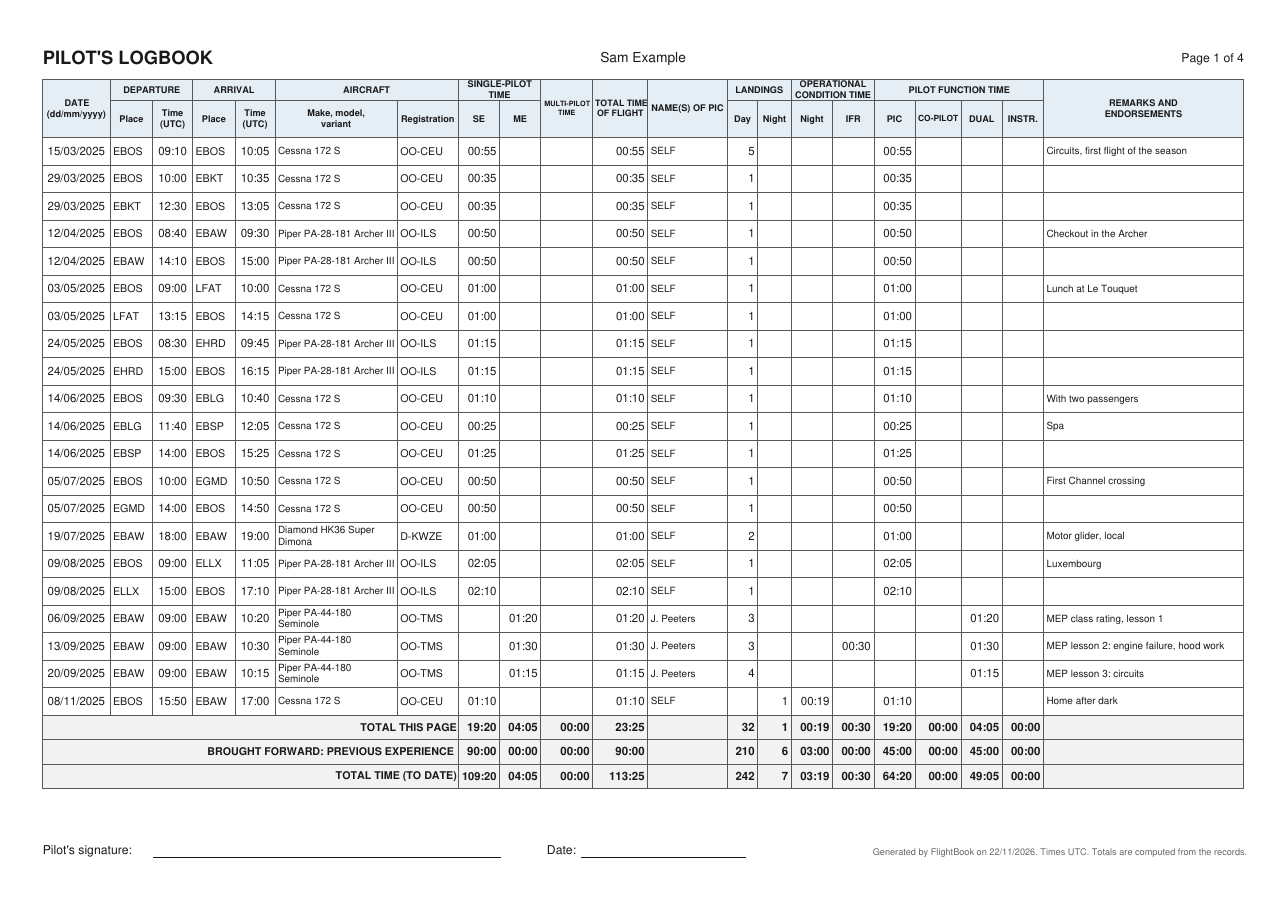
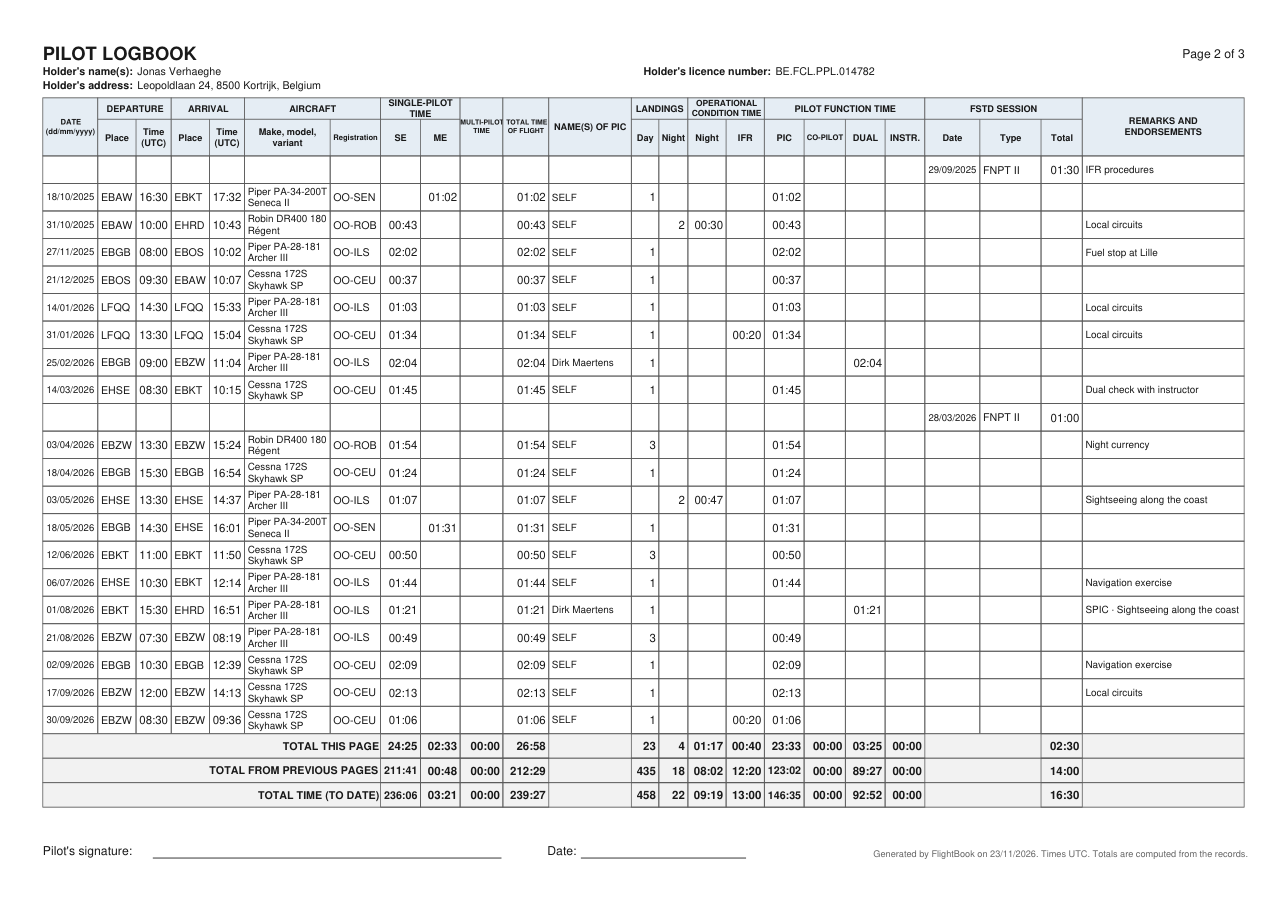
Screenshots: regenerate what the recent work changed, reproducibly
The Currency screen and the PDF were rewritten, and alerts and the holder block
are new, so those screenshots no longer showed the app. Rather than take them by
hand again, two scripts now do it:

- scripts/make-demo-logbook.ts writes a demo logbook from a fixed seed, with
  dates relative to a pinned DEMO_TODAY. It is seeded so the rating cards show
  one comfortably valid class, one with its proficiency-check window open, and
  one expired -- which is what makes the screenshots worth looking at.
- scripts/make-screenshots.mjs drives a real build in headless Chromium with the
  clock pinned to that date, loads the logbook through the app's own import, and
  captures viewport-sized frames matching the 824x1830 the README already used.
  fullPage is deliberately avoided: the bottom nav is fixed, so a fullPage shot
  strands it in the middle of the image.

pdf-logbook.png is now a page of the PDF the app itself generated from that same
logbook, picked because it carries two simulator sessions -- so the screenshot
actually shows the AMC change, sessions in the flight table filling only column
11, and the totals keeping flight and session time apart.

Taking the screenshots found a real UI flaw: a proficiency-check card showed two
expanders both labelled "How this is calculated", one for the rule and one for
the route sectors. They have distinct titles now.

Logbook, Flight, New flight, Totals and Map are untouched -- the work did not
[…]

Changed region(s): [[0.0311, 0.0308, 0.9635, 0.8923], [0.6838, 0.9231, 0.9635, 0.9538]]

diff --git a/scripts/make-demo-logbook.ts b/scripts/make-demo-logbook.ts
@@ -1,0 +1,126 @@
+/**
+ * Writes a demo logbook as a FlightBook JSON backup, for the README screenshots.
+ *
+ *   npx vite-node scripts/make-demo-logbook.ts -- /tmp/demo.json
+ *
+ * The logbook is invented: the pilot, the flights, the times, the remarks and the people never existed.
+ * Only the airports and the four registrations are real (chosen because Wikimedia Commons has a photo of
+ * each). Everything is derived from a fixed seed, so re-running this produces byte-identical output and the
+ * screenshots stay reproducible.
+ *
+ * Dates are relative to DEMO_TODAY, not to the real clock, so the currency and rating cards always show the
+ * same mix of green, amber, red and expired.
+ */
+import { writeFileSync } from 'node:fs';
+import { buildSnapshot, serializeSnapshot, type Snapshot } from '../src/domain/snapshot';
+import type { Aircraft, ClassRating, EngineClass, Flight, FstdSession, Person, PreviousExperience } from '../src/domain/types';
+import { emptyExperience } from '../src/domain/experience';
+
+/** The "today" the screenshots are taken at. */
+export const DEMO_TODAY = '2026-11-23';
+
+const day = 86_400_000;
+const at = (iso: string, hhmm: string) => Date.parse(`${iso}T${hhmm}:00Z`);
+const minus = (days: number) => new Date(Date.parse(`${DEMO_TODAY}T00:00:00Z`) - days * day).toISOString().slice(0, 10);
+
+// a tiny deterministic PRNG, so "random-looking" stays identical between runs
+let seed = 20261123;
+const rnd = () => ((seed = (seed * 1103515245 + 12345) & 0x7fffffff) / 0x7fffffff);
+const pick = <T>(xs: readonly T[]): T => xs[Math.floor(rnd() * xs.length)]!;
+
+const ts = Date.parse(`${DEMO_TODAY}T09:00:00Z`);
+const base = (id: string) => ({ id, createdAt: ts, updatedAt: ts });
+
+const persons: Person[] = [
+  { ...base('p-self'), name: 'SELF', nameKey: 'self', isSelf: true },
+  { ...base('p-dm'), name: 'Dirk Maertens', nameKey: 'dirk maertens', isSelf: false },
+  { ...base('p-lv'), name: 'Lieve Vandenberghe', nameKey: 'lieve vandenberghe', isSelf: false },
+];
+
+const fleet: { reg: string; make: string; model: string; variant: string; cls: ClassRating; eng: EngineClass }[] = [
+  { reg: 'OO-CEU', make: 'Cessna', model: '172S', variant: 'Skyhawk SP', cls: 'SEP_LAND', eng: 'SP-SE' },
+  { reg: 'OO-ILS', make: 'Piper', model: 'PA-28-181', variant: 'Archer III', cls: 'SEP_LAND', eng: 'SP-SE' },
+  { reg: 'OO-ROB', make: 'Robin', model: 'DR400', variant: '180 Régent', cls: 'SEP_LAND', eng: 'SP-SE' },
+  { reg: 'OO-SEN', make: 'Piper', model: 'PA-34-200T', variant: 'Seneca II', cls: 'MEP_LAND', eng: 'SP-ME' },
+];
+const aircraft: Aircraft[] = fleet.map((a, i) => ({
+  ...base(`ac-${i}`), registration: a.reg, make: a.make, model: a.model, variant: a.variant, engineClass: a.eng, classRating: a.cls,
+}));
+
+const AIRFIELDS = ['EBKT', 'EBOS', 'EBAW', 'EBGB', 'EHRD', 'EHSE', 'LFQQ', 'EBZW'] as const;
+const REMARKS = [
+  '', '', '', 'Local circuits', 'Navigation exercise', 'Cross-country to Rotterdam', 'Dual check with instructor',
+  'Night currency', 'Sightseeing along the coast', 'Fuel stop at Lille', '',
+];
+
+/** 52 flights over the last ~26 months, the most recent 9 days ago. */
+function makeFlights(): Flight[] {
+  const out: Flight[] = [];
+  let d = 790; // days before DEMO_TODAY for the oldest flight
+  for (let i = 0; i < 52; i++) {
+    const a = i % 11 === 10 ? fleet[3]! : pick(fleet.slice(0, 3));
+    const acIndex = fleet.indexOf(a);
+    const date = minus(d);
+    const depH = 7 + Math.floor(rnd() * 11);
+    const mins = 35 + Math.floor(rnd() * 100);
+    const dep = at(date, `${String(depH).padStart(2, '0')}:${rnd() < 0.5 ? '00' : '30'}`);
+    const from = pick(AIRFIELDS);
+    const to = rnd() < 0.3 ? from : pick(AIRFIELDS);
+    // a few night flights, and the most recent night landing is deliberately old (night currency lapsed)
+    const night = d > 150 && i % 9 === 4;
+    const dual = i % 8 === 3;
+    const isMe = a.eng === 'SP-ME';
+    out.push({
+      ...base(`f-${i}`), createdAt: ts - (52 - i) * 1000, date,
+      depPlace: from, depTimeUtc: dep, arrPlace: to, arrTimeUtc: dep + mins * 60_000,
+      aircraftId: `ac-${acIndex}`, registration: a.reg, aircraftMake: a.make, aircraftModel: a.model,
+      aircraftVariant: a.variant, aircraftClass: a.cls,
+      spSeMin: isMe ? 0 : mins, spMeMin: isMe ? mins : 0, mpMin: 0, totalMin: mins,
+      picNameId: dual ? 'p-dm' : 'p-self',
+      takeoffsDay: night ? 0 : 1, takeoffsNight: night ? 1 : 0,
+      landingsDay: night ? 0 : 1 + (rnd() < 0.2 ? 2 : 0), landingsNight: night ? 2 : 0,
+      nightMin: night ? Math.round(mins * 0.7) : 0, ifrMin: i % 13 === 0 ? 20 : 0,
+      picMin: dual ? 0 : mins, copiMin: 0, dualMin: dual ? mins : 0, instMin: 0,
+      isPicus: false, isSpic: dual && i % 16 === 3,
+      remarks: pick(REMARKS), attachmentIds: [], overrides: {},
+    });
+    d -= Math.max(3, Math.round(790 / 52 - 4 + rnd() * 16));
+    if (d < 9) d = 9;
+  }
+  return out.sort((x, y) => x.depTimeUtc - y.depTimeUtc);
+}
+
+const fstdSessions: FstdSession[] = [
+  { ...base('s-1'), date: minus(420), fstdType: 'FNPT II', totalMin: 90, remarks: 'IFR procedures' },
+  { ...base('s-2'), date: minus(240), fstdType: 'FNPT II', totalMin: 60, remarks: '' },
+  { ...base('s-3'), date: minus(45), fstdType: 'BITD', totalMin: 75, remarks: 'Emergency drills' },
+];
+
+const previousExperience: PreviousExperience[] = [{
+  ...base('e-1'), ...emptyExperience(minus(800)),
+  source: 'Paper logbook vol. 1', note: 'Training and early hours, 2019–2024',
+  periodFrom: '2019-04-01', periodTo: minus(800),
+  totalMin: 181 * 60 + 25, spSeMin: 181 * 60 + 25,
+  picMin: 96 * 60, dualMin: 85 * 60 + 25,
+  nightMin: 6 * 60 + 10, ifrMin: 11 * 60 + 40,
+  takeoffsDay: 412, takeoffsNight: 14, landingsDay: 412, landingsNight: 14,
+  fstdMin: 14 * 60,
+}];
+
+const snapshot: Snapshot = buildSnapshot({
+  exportedAt: `${DEMO_TODAY}T09:00:00.000Z`,
+  deviceId: 'demo-device', deviceName: 'Demo phone',
+  settings: {
+    pilotName: 'Jonas Verhaeghe',
+    licenceNumber: 'BE.FCL.PPL.014782',
+    address: 'Leopoldlaan 24\n8500 Kortrijk, Belgium',
+    // SEP (land) valid but revalidation not yet met; MEP expiring inside the check window; SET long expired
+    sepLandExpiry: minus(-95),
+    classExpiry: { MEP_LAND: minus(-48), SET_LAND: minus(190) },
+  },
+  aircraft, persons, flights: makeFlights(), fstdSessions, previousExperience, attachments: [],
+});
+
+const out = process.argv[2] ?? 'demo-logbook.json';
+writeFileSync(out, serializeSnapshot(snapshot));
+console.log(`${out}: ${snapshot.flights.length} flights, ${snapshot.fstdSessions.length} sessions, today = ${DEMO_TODAY}`);

diff --git a/src/features/currency/CurrencyScreen.tsx b/src/features/currency/CurrencyScreen.tsx
@@ -7,12 +7,12 @@ import { addDays, formatHHMM, isValidIsoDate, utcDateOf } from '../../domain/tim
 import { Bar, Field, StatusPill } from '../../ui/components';
 import { formatShortDate } from '../flights/format';
 
-function RulesNote({ rule, extra }: { rule: RuleSource; extra?: ReactNode }) {
+function RulesNote({ rule, extra, title = 'How this is calculated' }: { rule: RuleSource; extra?: ReactNode; title?: string }) {
   return (
     <details className="rules">
       <summary>
         {!rule.verified && <span className="chip unverified">Unverified rule</span>}
-        <span>How this is calculated</span>
+        <span>{title}</span>
       </summary>
       <div>{rule.reference}</div>
       {extra}
@@ -186,13 +186,13 @@ function CheckCard({ cls, check }: { cls: ClassRating; check: ProficiencyCheck }
         <>
           <Row label="Route sectors in the last 12 months before expiry" have={sectors.have} need={sectors.need} display={`${sectors.have} / ${sectors.need}`} ok={sectors.met} />
           <div className="hint">Or 1 route sector flown with an examiner, which may be the proficiency check itself.</div>
-          <RulesNote rule={DEFAULT_RULES.mepSectors} />
+          <RulesNote rule={DEFAULT_RULES.mepSectors} title="How route sectors are counted" />
         </>
       )}
       {check.state === 'expired' && <RenewalSteps />}
       {/* key: remount per class, so the date typed for one class is never carried into another. */}
       <ExpiryEditor key={cls} cls={cls} forceOpen={check.state === 'not-set'} />
-      <RulesNote rule={rule} />
+      <RulesNote rule={rule} title="How the revalidation deadline is worked out" />
     </div>
   );
 }

diff --git a/README.md b/README.md
@@ -8,17 +8,33 @@ The Android phone is the master logbook; the same app in a desktop browser is a 
 **The regulatory numbers are checked against the EASA text** — see [Totals and currency](#totals-and-currency) for what was checked, against which revision, and what the app still cannot know.
 
 ## Screenshots
-All screenshots show an invented logbook: a fictional pilot with 46 flights from 2025–2026, simulator sessions and one block of previous experience. The flights never happened. The airports and routes are real, and so are the four aircraft registrations (chosen because Wikimedia Commons has a photo of each); the flights, times, remarks and people are made up. Night time and the day/night take-offs and landings were calculated by the app itself. The aircraft photos were looked up by the app on Wikimedia Commons (credits [below](#photo-credits)). Some screens are in dark mode and the map uses the "Aviation magenta" colour, to show the theme and colour settings.
+Every screenshot shows an **invented** logbook: a fictional pilot, with flights, times, remarks and people that are made up. The airports and routes are real. Night time and the day/night take-offs and landings were calculated by the app itself, and the currency and rating states are the app's own, not mock-ups &mdash; the demo logbook is seeded so that one class rating is comfortably valid, one has its proficiency-check window open, and one has expired. Some screens are in dark mode and the map uses the "Aviation magenta" colour, to show the theme and colour settings.
+
+Five of them &mdash; **Currency**, **Class rating revalidation**, **Alerts**, **Holder details** and the **PDF logbook** &mdash; are **reproducible**: `scripts/make-demo-logbook.ts` writes a demo logbook from a fixed seed, and `scripts/make-screenshots.mjs` drives a real build of the app in headless Chromium with the clock pinned to the demo's date, so re-running them gives the same images. See [Regenerating the screenshots](#regenerating-the-screenshots). The rest (Logbook, Flight, New flight, Totals, Map) predate that script and show an earlier invented logbook, the one with the aircraft photos credited [below](#photo-credits).
 
 | Logbook | Flight | New flight |
 |---|---|---|
 | <img src="docs/screenshots/logbook.png" alt="Logbook list with total hours, flight count and recent flights" width="260"> | <img src="docs/screenshots/flight.png" alt="Detail of one flight: route, times, PIC time, take-offs, landings and night time" width="260"> | <img src="docs/screenshots/new-flight.png" alt="New flight form with off-blocks, on-blocks and total time filled in, and the airport names looked up" width="260"> |
 | **Totals** | **Currency** | **Map** |
-| <img src="docs/screenshots/totals.png" alt="Totals: flight time, pilot function breakdown and simulator time" width="260"> | <img src="docs/screenshots/currency.png" alt="Currency: passenger and night-passenger currency with progress bars" width="260"> | <img src="docs/screenshots/map.png" alt="Map of airports and routes flown, on the built-in basemap" width="260"> |
+| <img src="docs/screenshots/totals.png" alt="Totals: flight time, pilot function breakdown and simulator time" width="260"> | <img src="docs/screenshots/currency.png" alt="Currency for SEP (land): passengers current, night currency lapsed, with the one night take-off and landing the regulation requires" width="260"> | <img src="docs/screenshots/map.png" alt="Map of airports and routes flown, on the built-in basemap" width="260"> |
+| **Class rating revalidation** | **Alerts** | **Holder details for the PDF** |
+| <img src="docs/screenshots/currency-rating.png" alt="MEP (land) class rating: proficiency check due in 48 days, with the route-sector counter at 2 of 10" width="260"> | <img src="docs/screenshots/alerts.png" alt="Settings: alerts for currency and ratings switched on, with the night-currency option and a test notification button" width="260"> | <img src="docs/screenshots/export.png" alt="Export screen: holder name, licence number and address, and the Create PDF button" width="260"> |
 
-The PDF logbook (A4 landscape, AMC1 FCL.050 columns, per-page totals, totals brought forward from the previous experience):
+The PDF logbook: A4 landscape, the holder block and all twelve AMC1 FCL.050 column groups, with simulator sessions in the same table as column 11 (two of them on this page, filling only the FSTD SESSION columns), per-page totals and totals brought forward from the previous experience.
 
-<img src="docs/screenshots/pdf-logbook.png" alt="First page of the PDF logbook with the totals brought forward" width="720">
+<img src="docs/screenshots/pdf-logbook.png" alt="A page of the PDF logbook: holder block, twelve column groups, two simulator sessions interleaved with the flights, and the three totals rows" width="720">
+
+### Regenerating the screenshots
+```
+npx playwright install chromium                 # once
+npx vite-node scripts/make-demo-logbook.ts -- /tmp/demo.json
+VITE_BASE=/FlightBook/ npm run build
+npx vite preview --port 4330 --strictPort &
+node scripts/make-screenshots.mjs http://localhost:4330/FlightBook/ /tmp/demo.json
+```
+The script loads the demo logbook through the app's own import, so the screenshots can only show states the app can really reach. It also saves the PDF the app generates; `pdf-logbook.png` is a page of that file rendered to an image.
+
+Aircraft photo lookup is left at its default in the demo, but the screens it regenerates show no aircraft photos. **Turn it off before regenerating the first row**: Planespotters photos are not freely licensed, so one must never end up committed in `docs/screenshots/`.
 
 ### Photo credits
 Two third-party photos appear in the screenshots `docs/screenshots/logbook.png` (both photos) and `docs/screenshots/flight.png` (the Archer). In the screenshots they are cropped and scaled to fit the app's cards, and shown inside the app's screen.
@@ -160,4 +176,6 @@ The Planespotters response format was verified against the live API (November 20
 No UI library: Material 3 styling is plain CSS tokens in `src/styles.css`.
 
 ## Layout
+`scripts/make-demo-logbook.ts` writes the seeded demo logbook and `scripts/make-screenshots.mjs` regenerates the README images from it (see [Regenerating the screenshots](#regenerating-the-screenshots)).
+
 `src/domain` pure logic (types, time, roles, form rules, currency and alert levels, suggestions) · `src/db` Dexie schema and repository · `src/features` screens · `src/ui` shared components · `src/pwa` service-worker registration, storage and notification helpers · `src/sw.ts` the service worker itself (offline caching plus the daily alert check; hand-written, because the alert check has to run inside it) · `public/privacy.html` the published privacy policy · `scripts/make-icons.mjs` regenerates the PNG icons.
